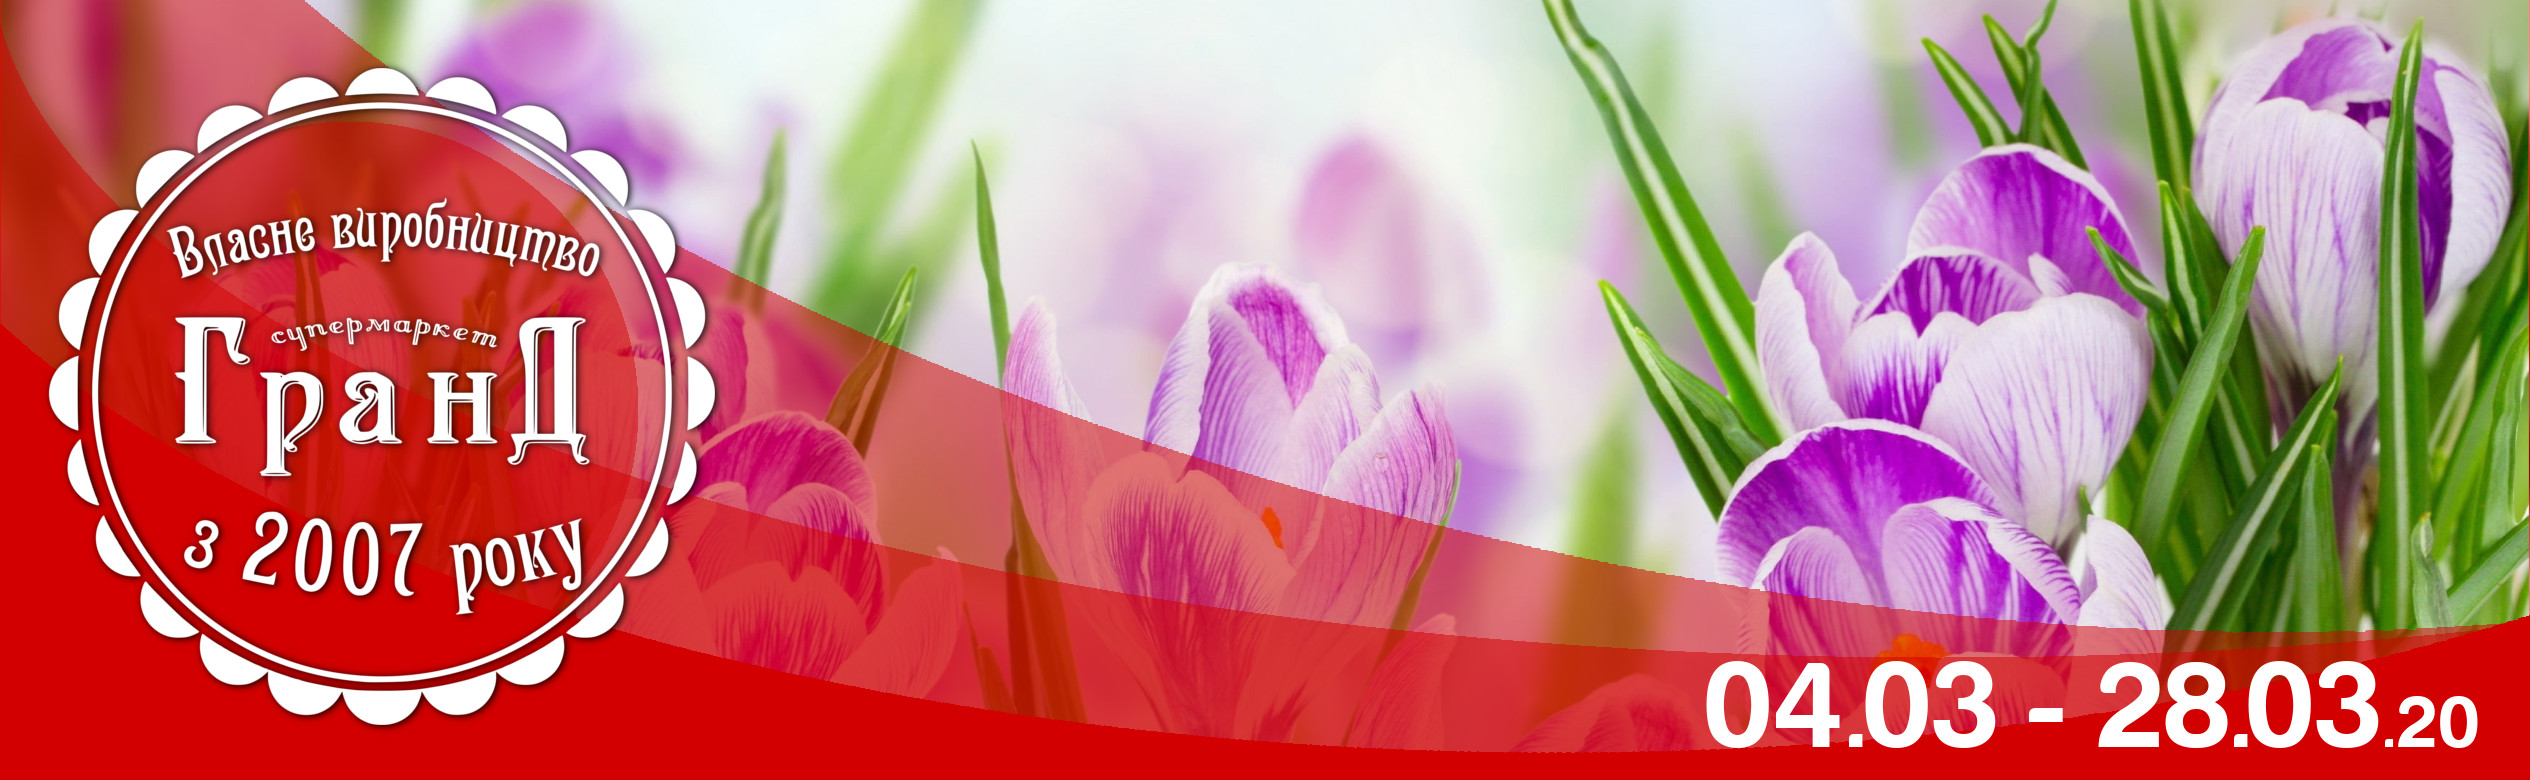
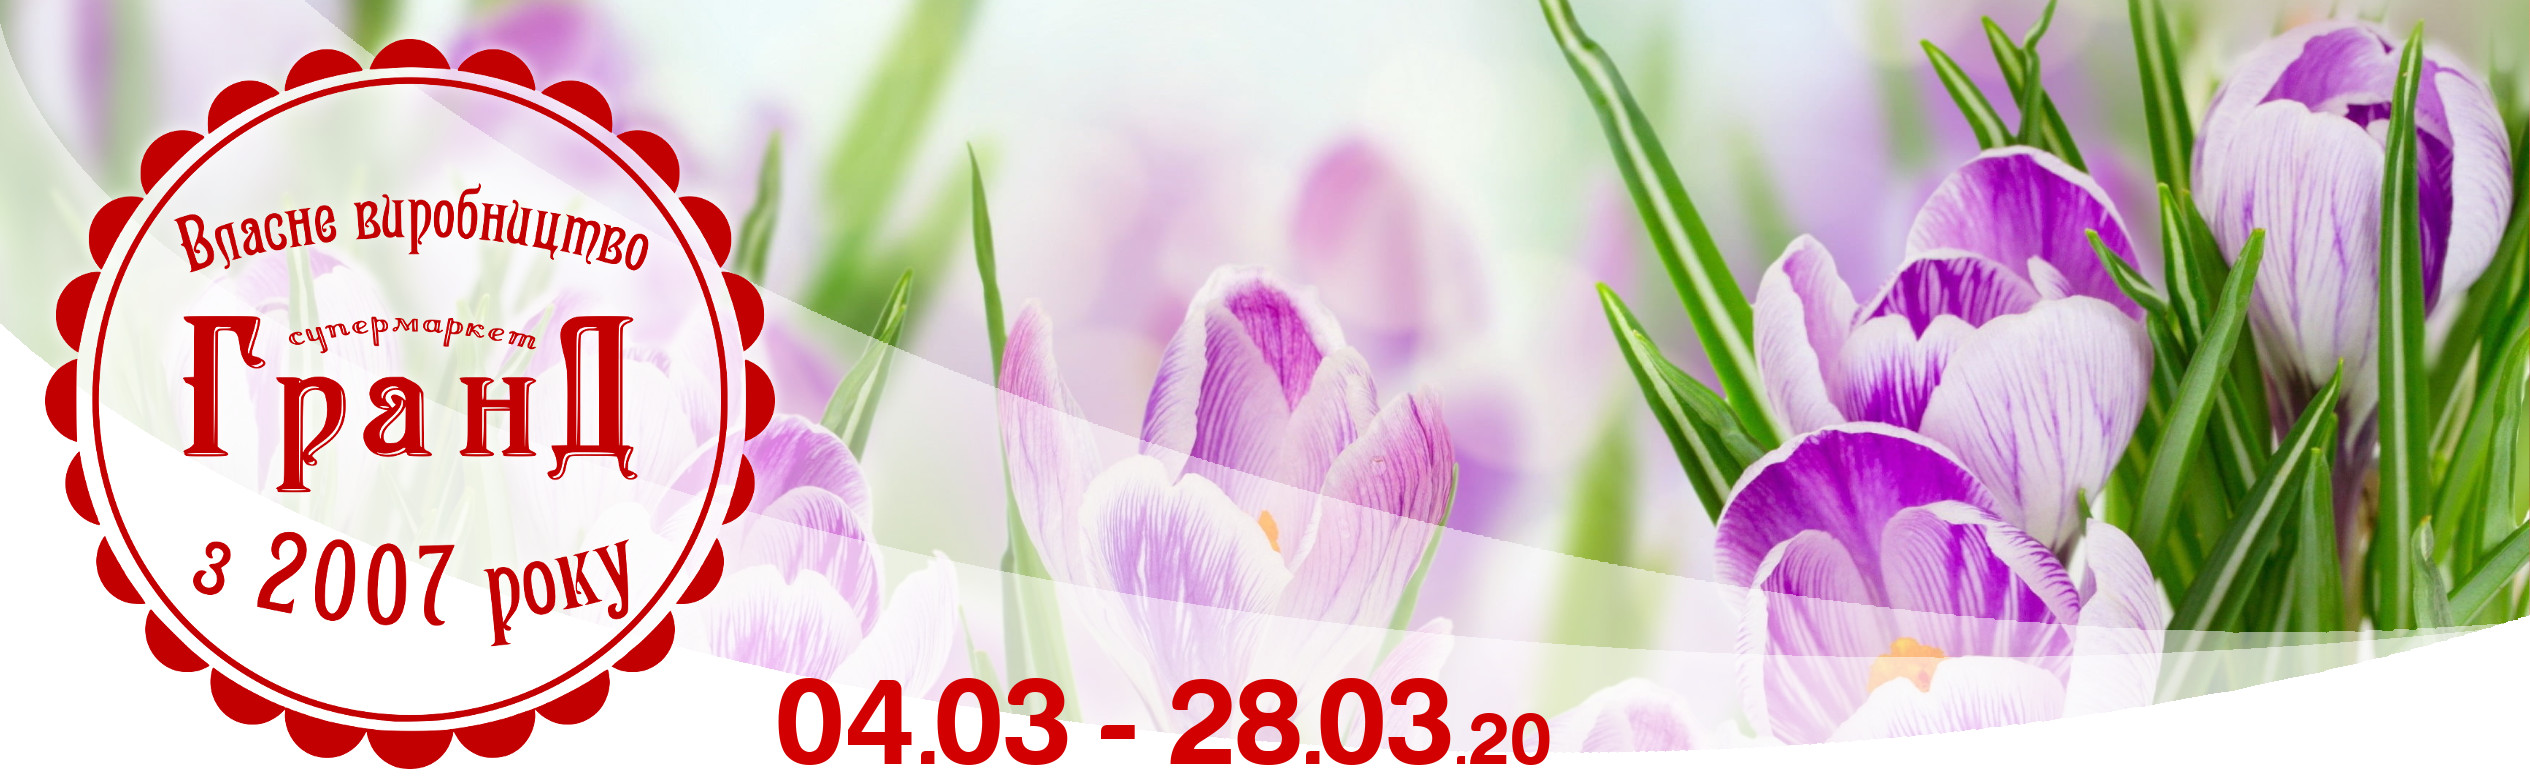
new bucklet v2

diff --git a/grand/buklet/base1.js b/grand/buklet/base1.js
@@ -16,8 +16,7 @@ let base = [
   {pic:"10", desc: `Вареники з картоплею$100г`, priceO: '550', priceN:'280', disc:'50%'},
   {pic:"11", desc: `Пельмені$100г`, priceO: '600', priceN:'390', disc:'35%'},
   {pic:"13a", desc: `Капуста квашена білокачанна з морквою/буряком$100г`, priceO: '250', priceN:'199', disc:'20%'},
-  {pic:"16a", desc: `Капуста квашена білокачанна з морквою/буряком 900г`, priceO: '3000', priceN:'2400', disc:'20%'},
-  {pic:"0", desc: `Корм для тварин свинний заморожений$100г`, priceO: '160', priceN:'099', disc:'40%'},
+  {pic:"16a", desc: `Капуста квашена білокачанна з морквою/буряком 900г`, priceO: '3000', priceN:'2490', disc:'20%'},
 
   {pic:"23", desc: `Капуста, кг`, priceO: '', priceN:'', disc:'XIT'},
   {pic:"19", desc: `Морква, кг`, priceO: '', priceN:'', disc:'XIT'},

diff --git a/grand/buklet/css/styles2.css b/grand/buklet/css/styles2.css
@@ -155,6 +155,7 @@ p.toPrevMode:hover {
     /* width: 4960px; */
     /* height: 3508px; */
     background-color: #d20000;
+    background-color: #fff;
     box-shadow: 0 0 24px black;
     /* border: 7px solid #d0131f; */
     /* border-left-color: transparent;
@@ -173,7 +174,7 @@ p.toPrevMode:hover {
 .header {
     /* margin-bottom: -783px; */
     /* display: none; */
-    height: 750px;
+    height: 781px;
     background: url(../image/header.jpg) no-repeat;
     margin-bottom: 0px;
 }
@@ -205,7 +206,7 @@ p.toPrevMode:hover {
     width: 32%;
     height: 690px;
     margin: .5% .5%;
-    box-shadow: 12px 12px 24px rgba(0,0,0,.45);
+    box-shadow: 12px 12px 24px rgba(0,0,0,.25);
     border-radius: 20px;
     background: white;
 }
@@ -267,7 +268,7 @@ p.toPrevMode:hover {
     width: 100%;
     height: 160px;
     border-top: 1px solid #d20000;
-    box-shadow: 0 -20px 33px rgba(0,0,0,.16);
+    box-shadow: 0 -20px 33px rgba(0,0,0,.06);
 }
 
 .sizethree.item {
